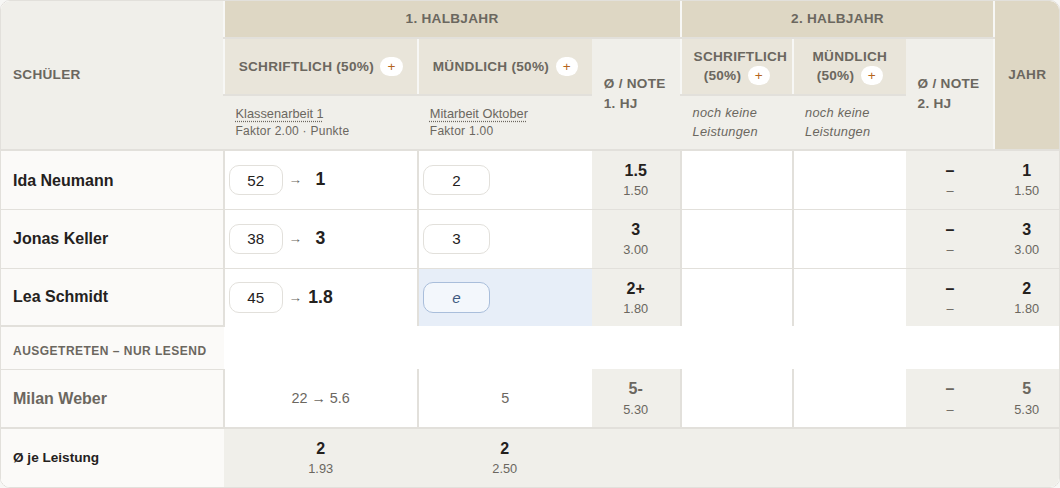
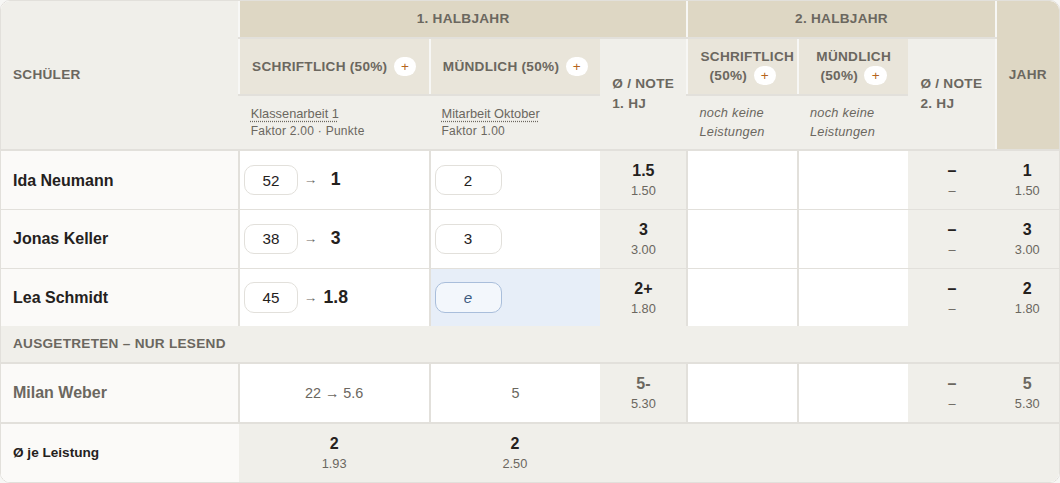
fix(grid): span the "Ausgetreten" heading row across the whole table
The heading row had a single cell, so only the name column got a background and the rest of the row stayed blank. It now has a second cell spanning the remaining columns and is styled like the table head.

diff --git a/src/main/resources/META-INF/resources/static/css/notenfuchs.css b/src/main/resources/META-INF/resources/static/css/notenfuchs.css
@@ -708,13 +708,8 @@ table.grade-grid td.student-cell a:hover { color: var(--color-primary); }
 /* Students who left the class: read-only rows below the active ones. */
 table.grade-grid tbody.left-students td { color: var(--color-text-muted); }
 table.grade-grid tbody.left-students td.readonly-cell { text-align: center; font-size: 0.9rem; }
-table.grade-grid tr.left-heading td {
-    padding-top: 1rem;
-    font-size: 0.75rem;
-    text-transform: uppercase;
-    letter-spacing: 0.04em;
-    border-top: 2px solid var(--color-border);
-}
+/* Their heading row looks like the table head; its label stays in place when scrolling sideways. */
+table.grade-grid tr.left-heading th:first-child { position: sticky; left: 0; z-index: 1; }
 
 /* "Fehler melden" in the header (base.html), styled like the other header links. */
 .user-info .feedback-open {

diff --git a/src/main/resources/templates/GridPage/gridHalfYear.html b/src/main/resources/templates/GridPage/gridHalfYear.html
@@ -172,7 +172,7 @@
             </tbody>
             {#if !leftRows.isEmpty}
             <tbody class="left-students">
-                <tr class="left-heading"><td class="student-cell">Ausgetreten – nur lesend</td></tr>
+                <tr class="left-heading"><th>Ausgetreten – nur lesend</th><th colspan="{#if undatedColumns.isEmpty}{leftRows.get(0).h1Cells.size + leftRows.get(0).h2Cells.size + 3}{#else}{leftRows.get(0).undatedCells.size + leftRows.get(0).h1Cells.size + leftRows.get(0).h2Cells.size + 3}{/if}"></th></tr>
                 {#for row in leftRows}
                 <tr>
                     <td class="student-cell"><a href="/subjects/{subject.id}/grid/students/{row.student.id}">{row.student.effectiveName}</a></td>

diff --git a/src/main/resources/templates/GridPage/grid.html b/src/main/resources/templates/GridPage/grid.html
@@ -87,7 +87,7 @@
             </tbody>
             {#if !leftRows.isEmpty}
             <tbody class="left-students">
-                <tr class="left-heading"><td class="student-cell">Ausgetreten – nur lesend</td></tr>
+                <tr class="left-heading"><th>Ausgetreten – nur lesend</th><th colspan="{leftRows.get(0).cells.size + 1}"></th></tr>
                 {#for row in leftRows}
                 <tr>
                     <td class="student-cell"><a href="/subjects/{subject.id}/grid/students/{row.student.id}">{row.student.effectiveName}</a></td>

diff --git a/src/main/resources/templates/GridPage/classOverview.html b/src/main/resources/templates/GridPage/classOverview.html
@@ -39,7 +39,7 @@
             </tbody>
             {#if !leftRows.isEmpty}
             <tbody class="left-students">
-                <tr class="left-heading"><td class="student-cell">Ausgetreten</td></tr>
+                <tr class="left-heading"><th>Ausgetreten</th><th colspan="{#if anyAtRiskScale}{leftRows.get(0).cells.size + 1}{#else}{leftRows.get(0).cells.size}{/if}"></th></tr>
                 {#for row in leftRows}
                 <tr>
                     <td class="student-cell">{row.studentName}</td>

diff --git a/src/main/resources/templates/GridPage/behaviorGrid.html b/src/main/resources/templates/GridPage/behaviorGrid.html
@@ -48,7 +48,7 @@
             </tbody>
             {#if !leftRows.isEmpty}
             <tbody class="left-students">
-                <tr class="left-heading"><td class="student-cell">Ausgetreten – nur lesend</td></tr>
+                <tr class="left-heading"><th>Ausgetreten – nur lesend</th><th colspan="{leftRows.get(0).cells.size + 1}"></th></tr>
                 {#for row in leftRows}
                 <tr>
                     <td class="student-cell">{row.student.effectiveName}</td>
